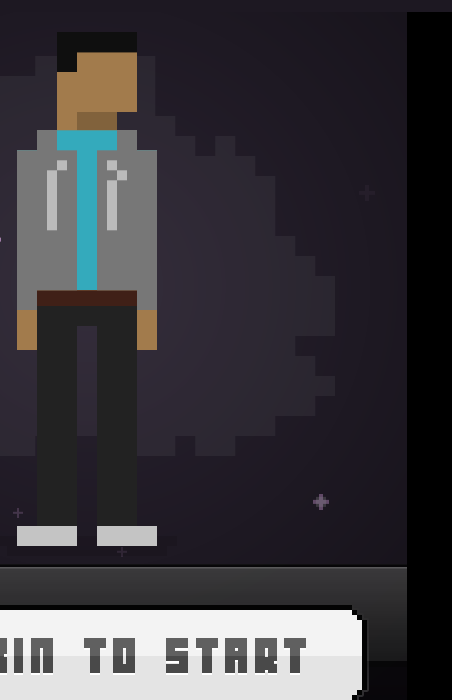
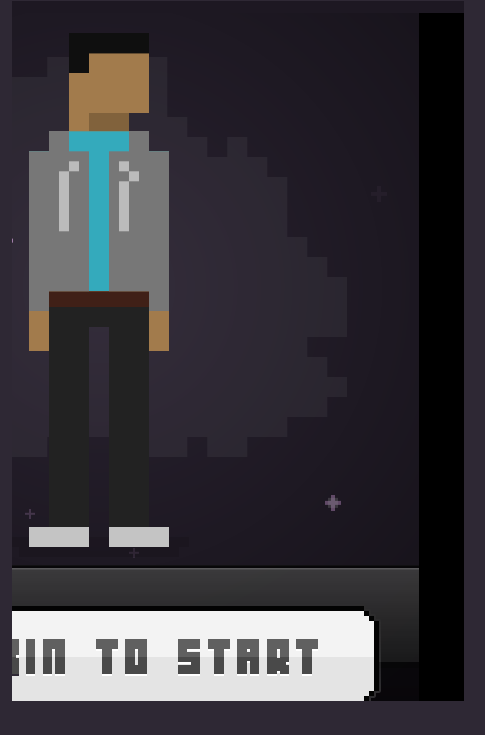
push

Changed region(s): [[0.0, 0.0, 1.0, 1.0], [0.031, 0.06, 0.3717, 0.51], [0.6814, 0.66, 0.7434, 0.72]]

diff --git a/css/styles.css b/css/styles.css
@@ -34,16 +34,18 @@ body {
 }
 
 #circle {
-    float: left;
+    /*float: left;*/
     width: 10.8em;
     height: 10.8em;
     background-image: url(../img/profilepic2.png);
     -moz-border-radius: 3.1em;
     -webkit-border-radius: 3.1em;
     border-radius: 62.5em;
-    margin-left: 42%;
-    margin-top: calc(30% - 2.8em);
+    margin-left: calc(100% / 2 - (10.8em / 2));
+    margin-top: calc(100% / 6);
     box-sizing: border-box;
+
+
 }
 
 .mid-page {
@@ -54,6 +56,19 @@ body {
     box-sizing: border-box;
     overflow-x: hidden;
 }
+
+
+/*
+.circle {
+  position: relative;
+  display: inline-block;
+  width: 100%;
+  height: 0;
+  padding: 50% 0;
+  border-radius: 50%;
+
+  background: #38a9e4;
+}*/
 
 /* BUTTONS ---  http://codepen.io/davekilljoy/*/
 button {
@@ -106,11 +121,23 @@ button {
 }
 
 h1 {
-    font-size: 4em;
+    font-size: 4vw;
     text-align: center;
     color: white;
-    /*margin-top: 420px;*/
-    margin-top: 37%;
+    font-family: 'Open Sans', sans-serif;
+    box-sizing: border-box;
+}
+
+.container {
+    text-align: center;
+}
+
+.test {
+        /*font-size: 4em;*/
+    font-size: 4vw;
+    text-align: center;
+    color: black;
+    /*margin-top: 37%;*/
     font-family: 'Open Sans', sans-serif;
     box-sizing: border-box;
 }
@@ -127,6 +154,16 @@ h2 {
 
 h3 {
     font-size: 1.3em;
+    font-weight: 300;
+    text-align: center;
+    color: white;
+    margin-top: .3em;
+    font-family: 'Open Sans', sans-serif;
+    box-sizing: border-box;
+}
+
+h4 {
+    font-size: 2vw;
     font-weight: 300;
     text-align: center;
     color: white;
@@ -171,7 +208,7 @@ h6 {
 @media only screen and (min-width: 768px) and (min-height: 700px) {
     .bounce {
       position:fixed;
-      left:50%;
+      left: calc(100% / 2 - .7em);
       bottom:0;
       margin-top:-1.56em;
       margin-left:-4.7em;
@@ -253,7 +290,7 @@ a:hover {
 
 hr {
     width: 19.8em;
-    box-sizing: border-box;
+    text-align: center;
 }
 
 .row {

diff --git a/index.html b/index.html
@@ -62,7 +62,7 @@
                         <div id="circle"></div>
                         <h1><b>Savion</b>Sample </h1>
                         <hr class="small">
-                        <h3>Web Design <i class="fa fa-cog fa-spin fa 1x"></i> Java Person</h3>
+                        <h4>Web Design <i class="fa fa-cog fa-spin fa 1x"></i> Java Person</h4>
                     </div>
                 </div>
             </div>
